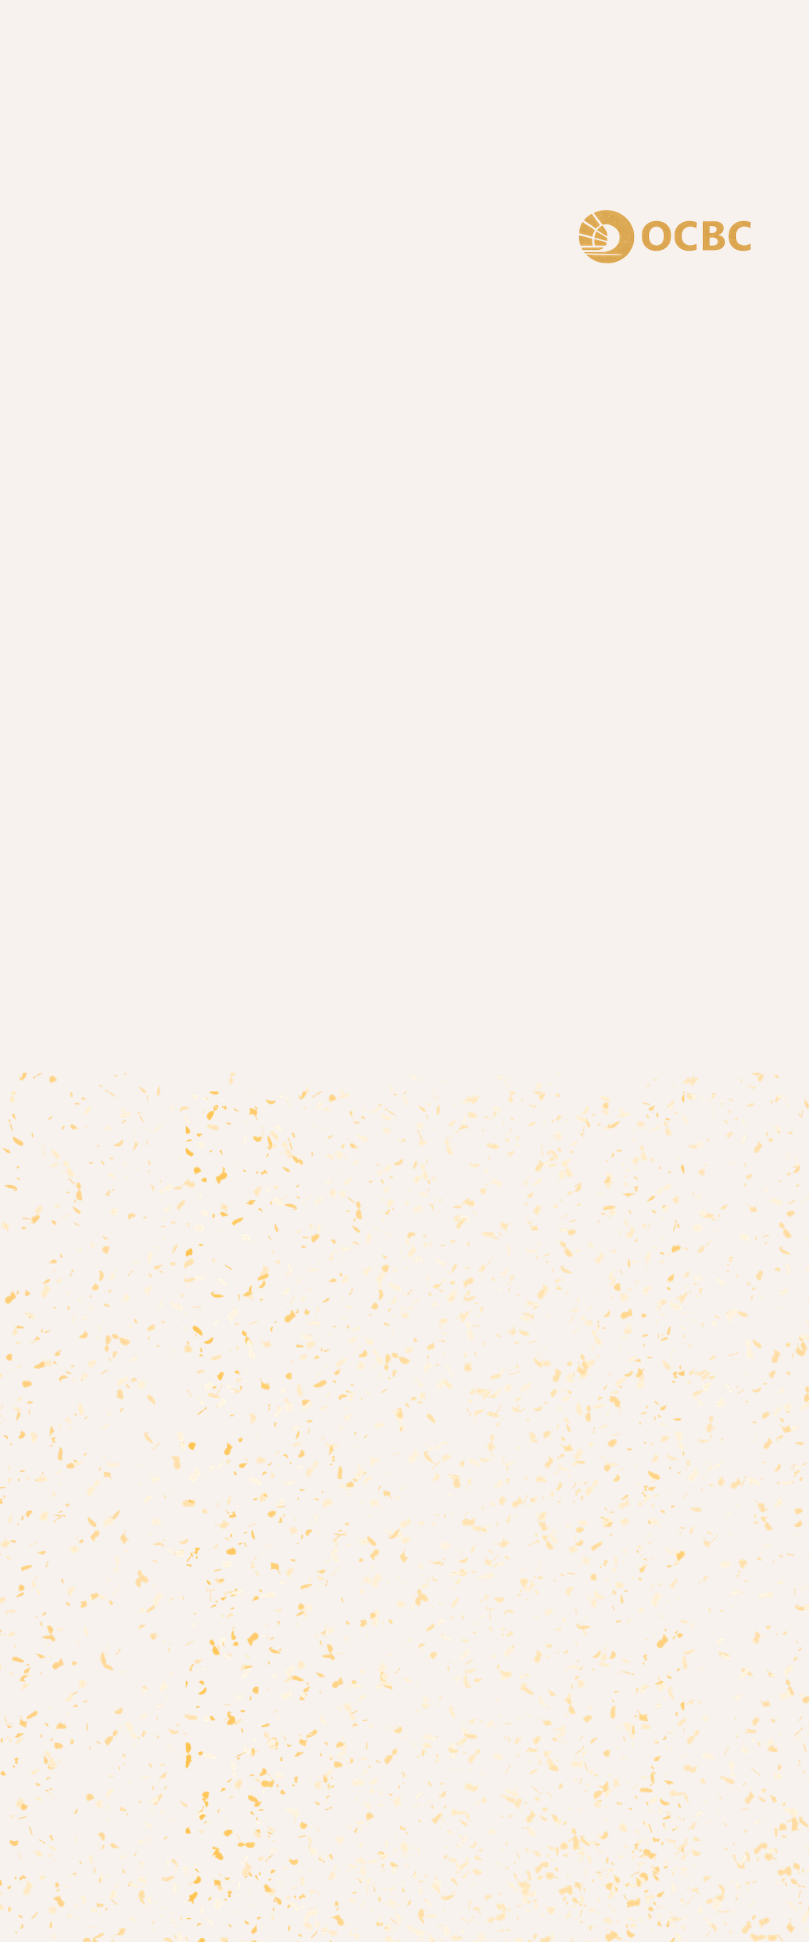
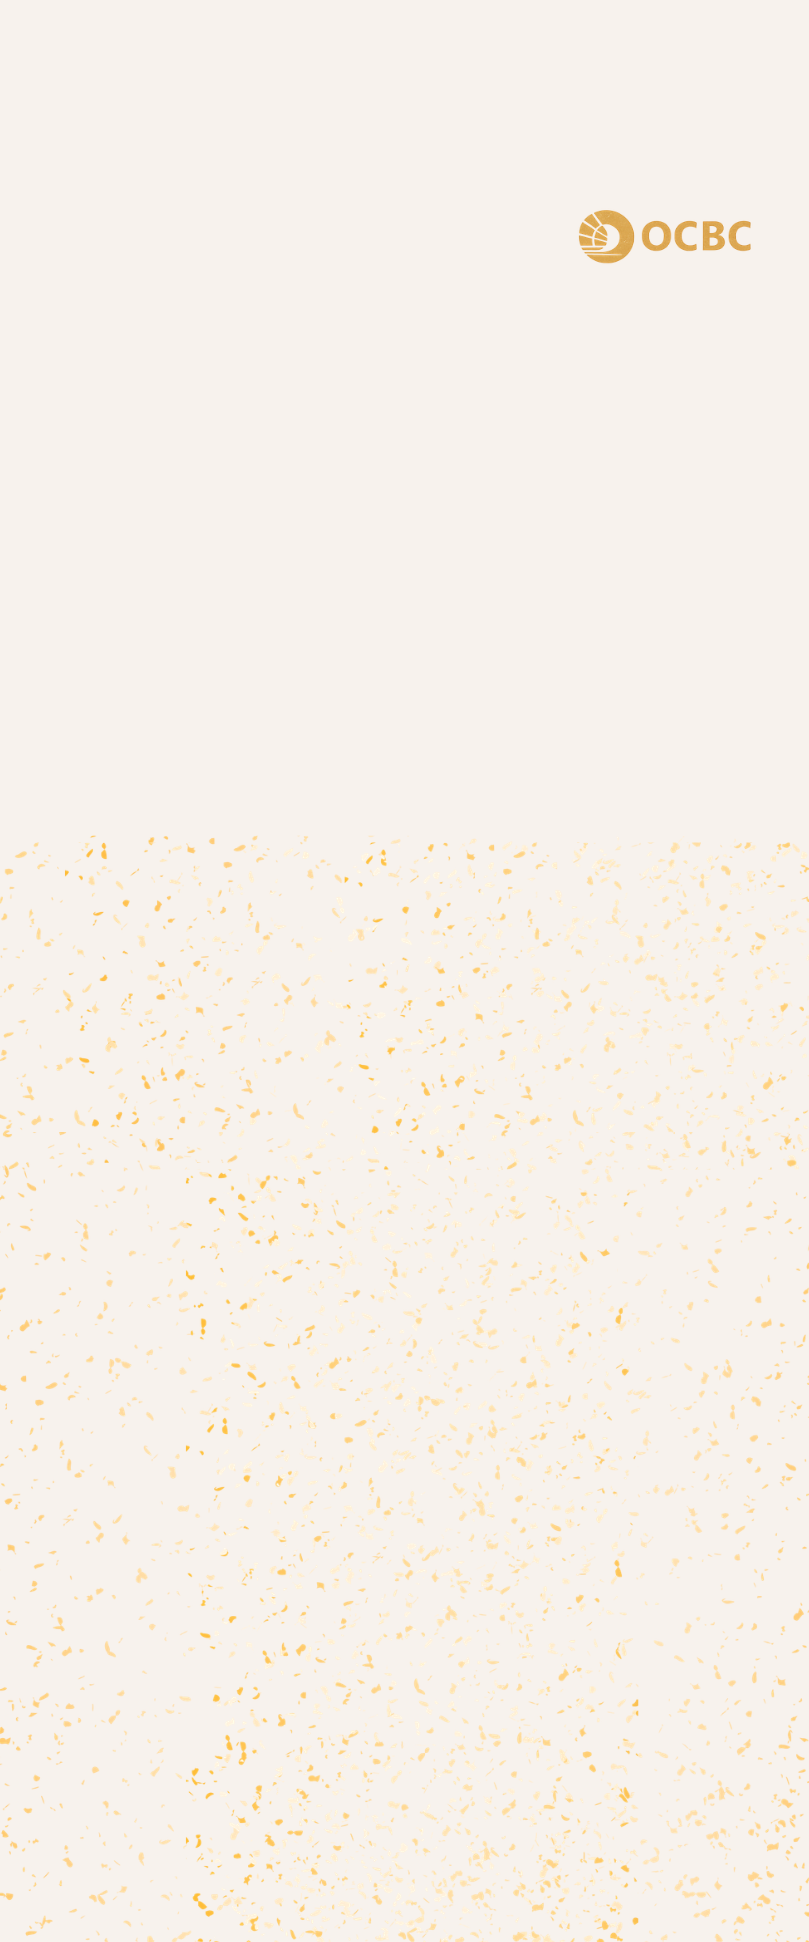
update ptt

diff --git a/index.html b/index.html
@@ -812,19 +812,24 @@
   .simbtn:active{background:rgba(255,255,255,.26)}
   .simbtn.reset{width:auto;background:transparent;border-color:transparent;color:rgba(255,255,255,.6)}
 
-  .sandproj{border:1px solid var(--line);border-radius:14px;padding:13px;margin-bottom:16px;background:#fff;box-shadow:var(--shadow)}
-  .sandproj.ok{border-color:#bfe6cd;background:linear-gradient(180deg,#f5fbf7,#fff)}
-  .sandproj.warn{border-color:#f3d8ad;background:linear-gradient(180deg,#fffaf2,#fff)}
+  .sandproj{border:1px solid #e8d6a8;border-radius:14px;padding:14px;margin-bottom:16px;background:linear-gradient(180deg,#fffbf3,#fff);box-shadow:0 3px 10px rgba(190,150,60,.08)}
+  .sandproj.ok{border-color:#e8d6a8;background:linear-gradient(180deg,#fffbf3,#fff)}
+  .sandproj.warn{border-color:#f0d9ab;background:linear-gradient(180deg,#fff9ef,#fff)}
   .spjtop{display:flex;align-items:flex-start;justify-content:space-between;margin-bottom:6px}
-  .spjlbl{font-size:10px;font-weight:800;text-transform:uppercase;letter-spacing:.05em;color:var(--muted)}
+  .spjlbl{font-size:10px;font-weight:800;text-transform:uppercase;letter-spacing:.05em;color:#a6710f}
   .spjval{font-family:'Sora';font-weight:800;font-size:19px;color:var(--ink)}
   .spjval span{font-size:11px;font-weight:600;color:var(--muted)}
   .spjdelta{display:inline-block;font-size:11px;font-weight:800;margin-top:3px}
-  .spjdelta.dn{color:#ec1c24}.spjdelta.up{color:#1f9d57}.spjdelta.flat{color:#caa23a}
+  .spjdelta.dn{color:#c0392b}.spjdelta.up{color:#1f9d57}.spjdelta.flat{color:#a6710f}
   .spjpill{font-size:11px;font-weight:800;padding:5px 11px;border-radius:20px;flex-shrink:0}
-  .spjpill.ok{background:#e7f6ee;color:#1f9d57}.spjpill.warn{background:#fde7d3;color:#c47712}
-  .spjchart{margin:2px 0 8px}
-  .spjmsg{font-size:12px;line-height:1.45;color:var(--ink2)}
+  .spjpill.ok{background:#e7f6ee;color:#1f9d57}.spjpill.warn{background:#fbe8c8;color:#a6710f}
+  .spjchart{margin:6px 0 4px}
+  .spjchartwrap{width:100%}
+  .spjlegend{display:flex;flex-wrap:wrap;gap:12px;padding:8px 2px 2px;border-top:1px solid #f0e4c8;margin-top:2px}
+  .spjlegend .lgi{display:flex;align-items:center;gap:5px;font-size:10.5px;color:var(--ink2);font-weight:600}
+  .spjlegend .lgi .ln{display:inline-block;width:14px;height:0;border-top:2px dashed}
+  .spjlegend .lgi .ln.solid{border-top-style:solid;border-top-width:2.5px}
+  .spjmsg{font-size:12px;line-height:1.45;color:var(--ink2);padding-top:8px}
 
   .hsumwrap{display:flex;flex-direction:column;gap:10px}
   .hsumg{border:1px solid var(--line);border-radius:13px;padding:11px 13px;background:#fff}
@@ -1750,9 +1755,13 @@ home(){return `<div style="width:100%;overflow:hidden;line-height:0;height:515px
     <img src="images/ocbc-ea-home.png" style="width:100%;display:block;position:absolute;left:0;top:-730px" alt="OCBC nav"/>
   </div>`;},
 
-link(){return appbar('Link Accounts','portfolio',false,true)+`<div class="pad">
-  <h1 style="margin-top:6px">Give Your AI Team A Complete View</h1>
-  <p class="sub">Add your outside holdings so your team can plan around your whole portfolio — diversify better and avoid overlap. Read-only; nothing is moved.</p>
+link(){return `<div style="position:relative">
+  <div style="position:absolute;top:130px;left:0;right:0;bottom:0;background:rgba(255,251,244,.38);z-index:0;pointer-events:none"></div>
+  <div style="position:relative;z-index:1;padding-top:50px">${appbar('Link Accounts','portfolio',false,true)}<div class="pad">
+  <div style="background:rgba(255,253,248,.72);backdrop-filter:blur(6px);-webkit-backdrop-filter:blur(6px);border-radius:16px;padding:14px 16px;margin:0 0 14px">
+    <h1 style="margin:0 0 6px">Give Your AI Team A Complete View</h1>
+    <p class="sub" style="margin:0;color:var(--ink2)">Add your outside holdings so your team can plan around your whole portfolio — diversify better and avoid overlap. Read-only; nothing is moved.</p>
+  </div>
 
   <div class="card" style="background:linear-gradient(135deg,#fffaf0,#fff);border:1.5px solid #e8d6a8;cursor:pointer" onclick="linkSGFinDex()">
     <div class="row"><div class="li" style="width:40px;height:40px;border-radius:11px;background:linear-gradient(160deg,#e3b04a,#b8790f);color:#fff;display:flex;align-items:center;justify-content:center;font-weight:800;font-size:11px;font-family:'Sora'">SG</div>
@@ -1761,11 +1770,11 @@ link(){return appbar('Link Accounts','portfolio',false,true)+`<div class="pad">
   </div>
 
   <div class="sbsec-h" style="margin:20px 0 8px">Brokerages &amp; other holdings</div>
-  <div id="provList">${state.providers.filter(p=>p.manual).map(p=>provRow(p)).join('')||'<div class="sbempty">None added yet — add an overseas broker, robo, or property below.</div>'}</div>
-  <div class="lrow" onclick="manualModal()" style="border-style:dashed;border-color:#dcbb72;justify-content:center;color:#a6710f;font-weight:700">＋ Add a brokerage manually</div>
+  <div id="provList">${state.providers.filter(p=>p.manual).map(p=>provRow(p)).join('')||'<div class="sbempty" style="background:linear-gradient(180deg,#fffdf9,#fff);border:1px solid var(--line)">None added yet — add an overseas broker, robo, or property below.</div>'}</div>
+  <div class="lrow" onclick="manualModal()" style="background:linear-gradient(180deg,#fffdf9,#fff);border-style:dashed;border-color:#dcbb72;justify-content:center;color:#a6710f;font-weight:700;margin-top:12px">＋ Add a brokerage manually</div>
 
   <button class="btn gold" onclick="go('portfolio')">Done — back to my plan →</button>
-</div>`;},
+</div></div></div>`;},
 
 goals(){const sel=AGENTS.filter(a=>state.agents.includes(a.id));
   const turns=[];
@@ -2568,33 +2577,41 @@ function sandSeries(){const n=Math.max(24,horizon()*12),r=pRetEff()/12,base=tota
     const wave=Math.sin(i*0.5)*0.016+Math.sin(i*0.23+1)*0.011;pts.push(v*(1+wave));}
   return pts;}
 function sandMiniChart(){const pts=sandSeries(),n=pts.length-1,t=targetVal(),yrs=horizon();
-  const W=300,H=104,padL=36,padR=8,padT=8,padB=16;
+  const W=300,H=112,padL=10,padR=10,padT=10,padB=22;
   const aiv=state._aiProj||pts[n];
-  const ceil=Math.max(t,aiv,Math.max.apply(null,pts))*1.06, floor=Math.min(POOL,Math.min.apply(null,pts))*0.97;
+  const ceil=Math.max(t,aiv,Math.max.apply(null,pts))*1.08, floor=Math.min(POOL,Math.min.apply(null,pts))*0.95;
   const plotW=W-padL-padR, plotH=(H-padB)-padT;
   const X=i=>padL+i/n*plotW,Y=v=>(H-padB)-(v-floor)/(ceil-floor)*plotH;
-  const ok=pts[n]>=t,col=ok?'#1f9d57':'#e0883a',gy=Y(t);
-  let out=`<svg width="100%" viewBox="0 0 ${W} ${H}" preserveAspectRatio="none">`;
-  // y gridlines + value labels
-  for(let g=0;g<=2;g++){const yy=padT+g*plotH/2;const val=ceil-(g/2)*(ceil-floor);
-    out+=`<line x1="${padL}" y1="${yy.toFixed(1)}" x2="${W-padR}" y2="${yy.toFixed(1)}" stroke="rgba(0,0,0,.05)"/>`;
-    out+=`<text x="${padL-5}" y="${(yy+3).toFixed(1)}" text-anchor="end" font-family="Inter" font-size="7.5" fill="#9aa0aa">S$${Math.round(val/1000)}k</text>`;}
-  // axis lines
-  out+=`<line x1="${padL}" y1="${padT}" x2="${padL}" y2="${H-padB}" stroke="rgba(0,0,0,.16)"/>`;
-  out+=`<line x1="${padL}" y1="${H-padB}" x2="${W-padR}" y2="${H-padB}" stroke="rgba(0,0,0,.16)"/>`;
-  // goal line
-  out+=`<line x1="${padL}" y1="${gy.toFixed(1)}" x2="${W-padR}" y2="${gy.toFixed(1)}" stroke="#9aa0aa" stroke-width="1.2" stroke-dasharray="4 4"/>`;
-  out+=`<text x="${padL+3}" y="${Math.max(padT+8,gy-4).toFixed(1)}" font-family="Inter" font-size="8" fill="#737984">Goal S$${Math.round(t/1000)}k</text>`;
-  // AI plan reference
-  if(state._aiProj){const ay=Y(state._aiProj);out+=`<line x1="${padL}" y1="${ay.toFixed(1)}" x2="${W-padR}" y2="${ay.toFixed(1)}" stroke="#caa23a" stroke-width="1.2" stroke-dasharray="3 3" opacity=".8"/><text x="${W-padR}" y="${Math.max(padT+8,ay-3).toFixed(1)}" text-anchor="end" font-family="Inter" font-weight="700" font-size="8" fill="#caa23a">AI Plan S$${Math.round(state._aiProj/1000)}k</text>`;}// area + line
+  const ok=pts[n]>=t,col=ok?'#1f9d57':'#c47712',gy=Y(t);
+  let out=`<svg width="100%" viewBox="0 0 ${W} ${H}" preserveAspectRatio="none">
+    <defs>
+      <linearGradient id="spjfill" x1="0" y1="0" x2="0" y2="1">
+        <stop offset="0" stop-color="${col}" stop-opacity=".22"/>
+        <stop offset="1" stop-color="${col}" stop-opacity="0"/>
+      </linearGradient>
+    </defs>`;
+  // 3 soft horizontal gridlines, no value labels (kept in the legend row instead)
+  for(let g=0;g<=2;g++){const yy=padT+g*plotH/2;
+    out+=`<line x1="${padL}" y1="${yy.toFixed(1)}" x2="${W-padR}" y2="${yy.toFixed(1)}" stroke="rgba(166,113,15,.10)"/>`;}
+  // goal line — gold dashed, no inline text
+  out+=`<line x1="${padL}" y1="${gy.toFixed(1)}" x2="${W-padR}" y2="${gy.toFixed(1)}" stroke="#c9a44a" stroke-width="1.3" stroke-dasharray="4 4"/>`;
+  // AI plan reference — lighter gold dashed, no inline text
+  if(state._aiProj){const ay=Y(state._aiProj);out+=`<line x1="${padL}" y1="${ay.toFixed(1)}" x2="${W-padR}" y2="${ay.toFixed(1)}" stroke="#e3c98a" stroke-width="1.3" stroke-dasharray="2 3"/>`;}
+  // area + projection line
   let d='';for(let i=0;i<=n;i++)d+=(i?'L':'M')+X(i).toFixed(1)+' '+Y(pts[i]).toFixed(1)+' ';
-  out+=`<path d="${d}L ${X(n).toFixed(1)} ${H-padB} L ${X(0).toFixed(1)} ${H-padB} Z" fill="${col}" opacity=".12"/>`;
-  out+=`<path d="${d}" fill="none" stroke="${col}" stroke-width="2.4" stroke-linejoin="round"/>`;
-  out+=`<circle cx="${X(n).toFixed(1)}" cy="${Y(pts[n]).toFixed(1)}" r="3.8" fill="${col}"/>`;
-  // x-axis year labels
+  out+=`<path d="${d}L ${X(n).toFixed(1)} ${H-padB} L ${X(0).toFixed(1)} ${H-padB} Z" fill="url(#spjfill)"/>`;
+  out+=`<path d="${d}" fill="none" stroke="${col}" stroke-width="2.6" stroke-linejoin="round" stroke-linecap="round"/>`;
+  out+=`<circle cx="${X(n).toFixed(1)}" cy="${Y(pts[n]).toFixed(1)}" r="4" fill="#fff" stroke="${col}" stroke-width="2.4"/>`;
+  // x-axis year labels only, kept minimal
   [0,Math.round(n/2),n].forEach(i=>{const yr=2025+Math.round((i/n)*yrs);
-    out+=`<text x="${X(i).toFixed(1)}" y="${H-4}" text-anchor="${i===0?'start':i>=n?'end':'middle'}" font-family="Inter" font-size="7.5" fill="#9aa0aa">${i===0?'Now':yr}</text>`;});
-  out+=`</svg>`;return out;}
+    out+=`<text x="${X(i).toFixed(1)}" y="${H-6}" text-anchor="${i===0?'start':i>=n?'end':'middle'}" font-family="Inter" font-size="8" fill="#a89a7d">${i===0?'Now':yr}</text>`;});
+  out+=`</svg>`;
+  return `<div class="spjchartwrap">${out}</div>
+    <div class="spjlegend">
+      <span class="lgi"><span class="ln solid" style="border-color:${col}"></span>Projected · S$${Math.round(pts[n]/1000)}k</span>
+      <span class="lgi"><span class="ln" style="border-color:#c9a44a"></span>Goal · S$${Math.round(t/1000)}k</span>
+      ${state._aiProj?`<span class="lgi"><span class="ln" style="border-color:#e3c98a"></span>AI Plan · S$${Math.round(state._aiProj/1000)}k</span>`:''}
+    </div>`;}
 function sandProjPanel(){const yr=2025+horizon(),proj=sandProjValue(),t=targetVal(),ok=proj>=t,short=Math.max(0,Math.round((t-proj)/1000));
   const r=pRetEff();const ytg=(r>0&&t>POOL)?Math.log(t/POOL)/Math.log(1+r):0;const hitYr=Math.ceil(2025+ytg);const late=Math.max(1,hitYr-yr);
   const base=state._aiProj||proj;const dv=Math.round((proj-base)/1000);
@@ -2823,7 +2840,7 @@ function addManual(){const nm=($('mName').value||'').trim();const v=parseInt(($(
   if(!nm){toast('Enter an account name');return;}
   state.providers.push({id:'m'+Date.now(),name:nm,sub:st?'Holds: '+st:'Manually added',color:'#5a6470',val:v,linked:true,manual:true,short:nm.slice(0,2).toUpperCase(),stocks:st});
   hideModal();refreshLinkUI();toast(nm+' added ✓');}
-function refreshLinkUI(){if($('provList'))$('provList').innerHTML=state.providers.filter(p=>p.manual).map(provRow).join('')||'<div class="sbempty">None added yet.</div>';
+function refreshLinkUI(){if($('provList'))$('provList').innerHTML=state.providers.filter(p=>p.manual).map(provRow).join('')||'<div class="sbempty" style="background:linear-gradient(180deg,#fffdf9,#fff);border:1px solid var(--line)">None added yet.</div>';
   const conf=confidence();if($('confVal'))$('confVal').textContent=conf+'%';if($('confBar'))$('confBar').style.width=conf+'%';
   if($('netVal'))$('netVal').textContent='S$'+linkedNet().toLocaleString();
   const left=Math.max(0,5-state.providers.filter(x=>x.linked).length);
@@ -3056,7 +3073,8 @@ function render(){
     goals:{img:'images/ocbc-ea-yourgoals.png',top:-40,width:100},
     risk:{img:'images/ocbc-ea-risk.png',top:-40,width:100},
     reco:{img:'images/ocbc-ea-yourplan.png',top:-40,width:100},
-    portfolio:{img:'images/ocbc-ea-portfolio.png',top:-40,width:100}
+    portfolio:{img:'images/ocbc-ea-portfolio.png',top:-40,width:100},
+    link:{img:'images/ocbc-ea-link.png',top:-40,width:100}
   };
   $('statusbar').className='statusbar'+(cur==='home'||cur==='analyze'||BG_SCREENS[cur]?' onhero':cur==='login'?' over':'');
   if($('screenbg')){
